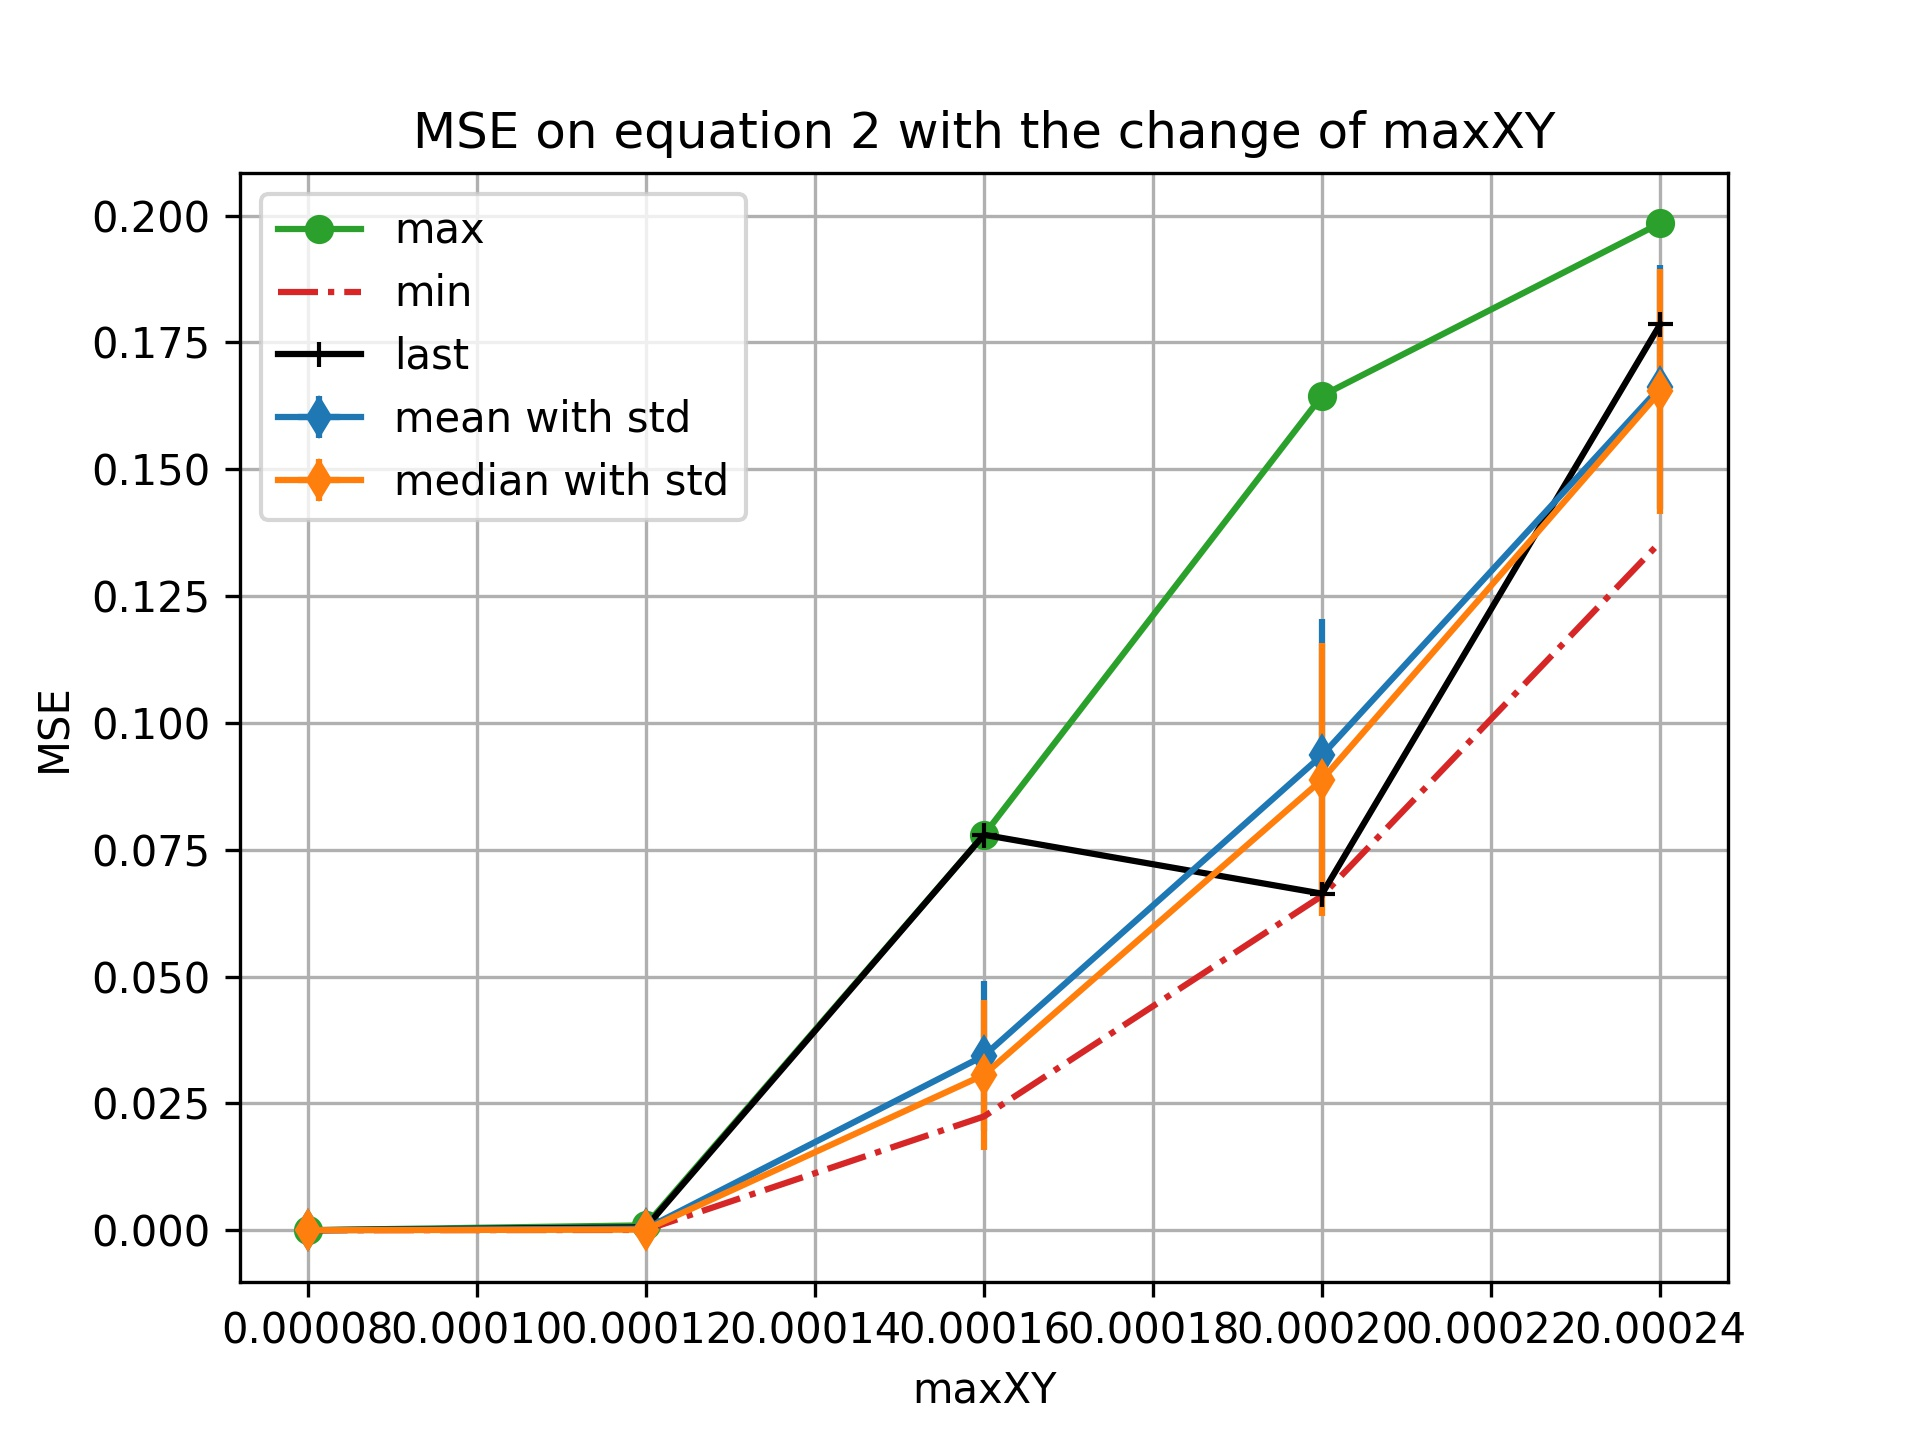
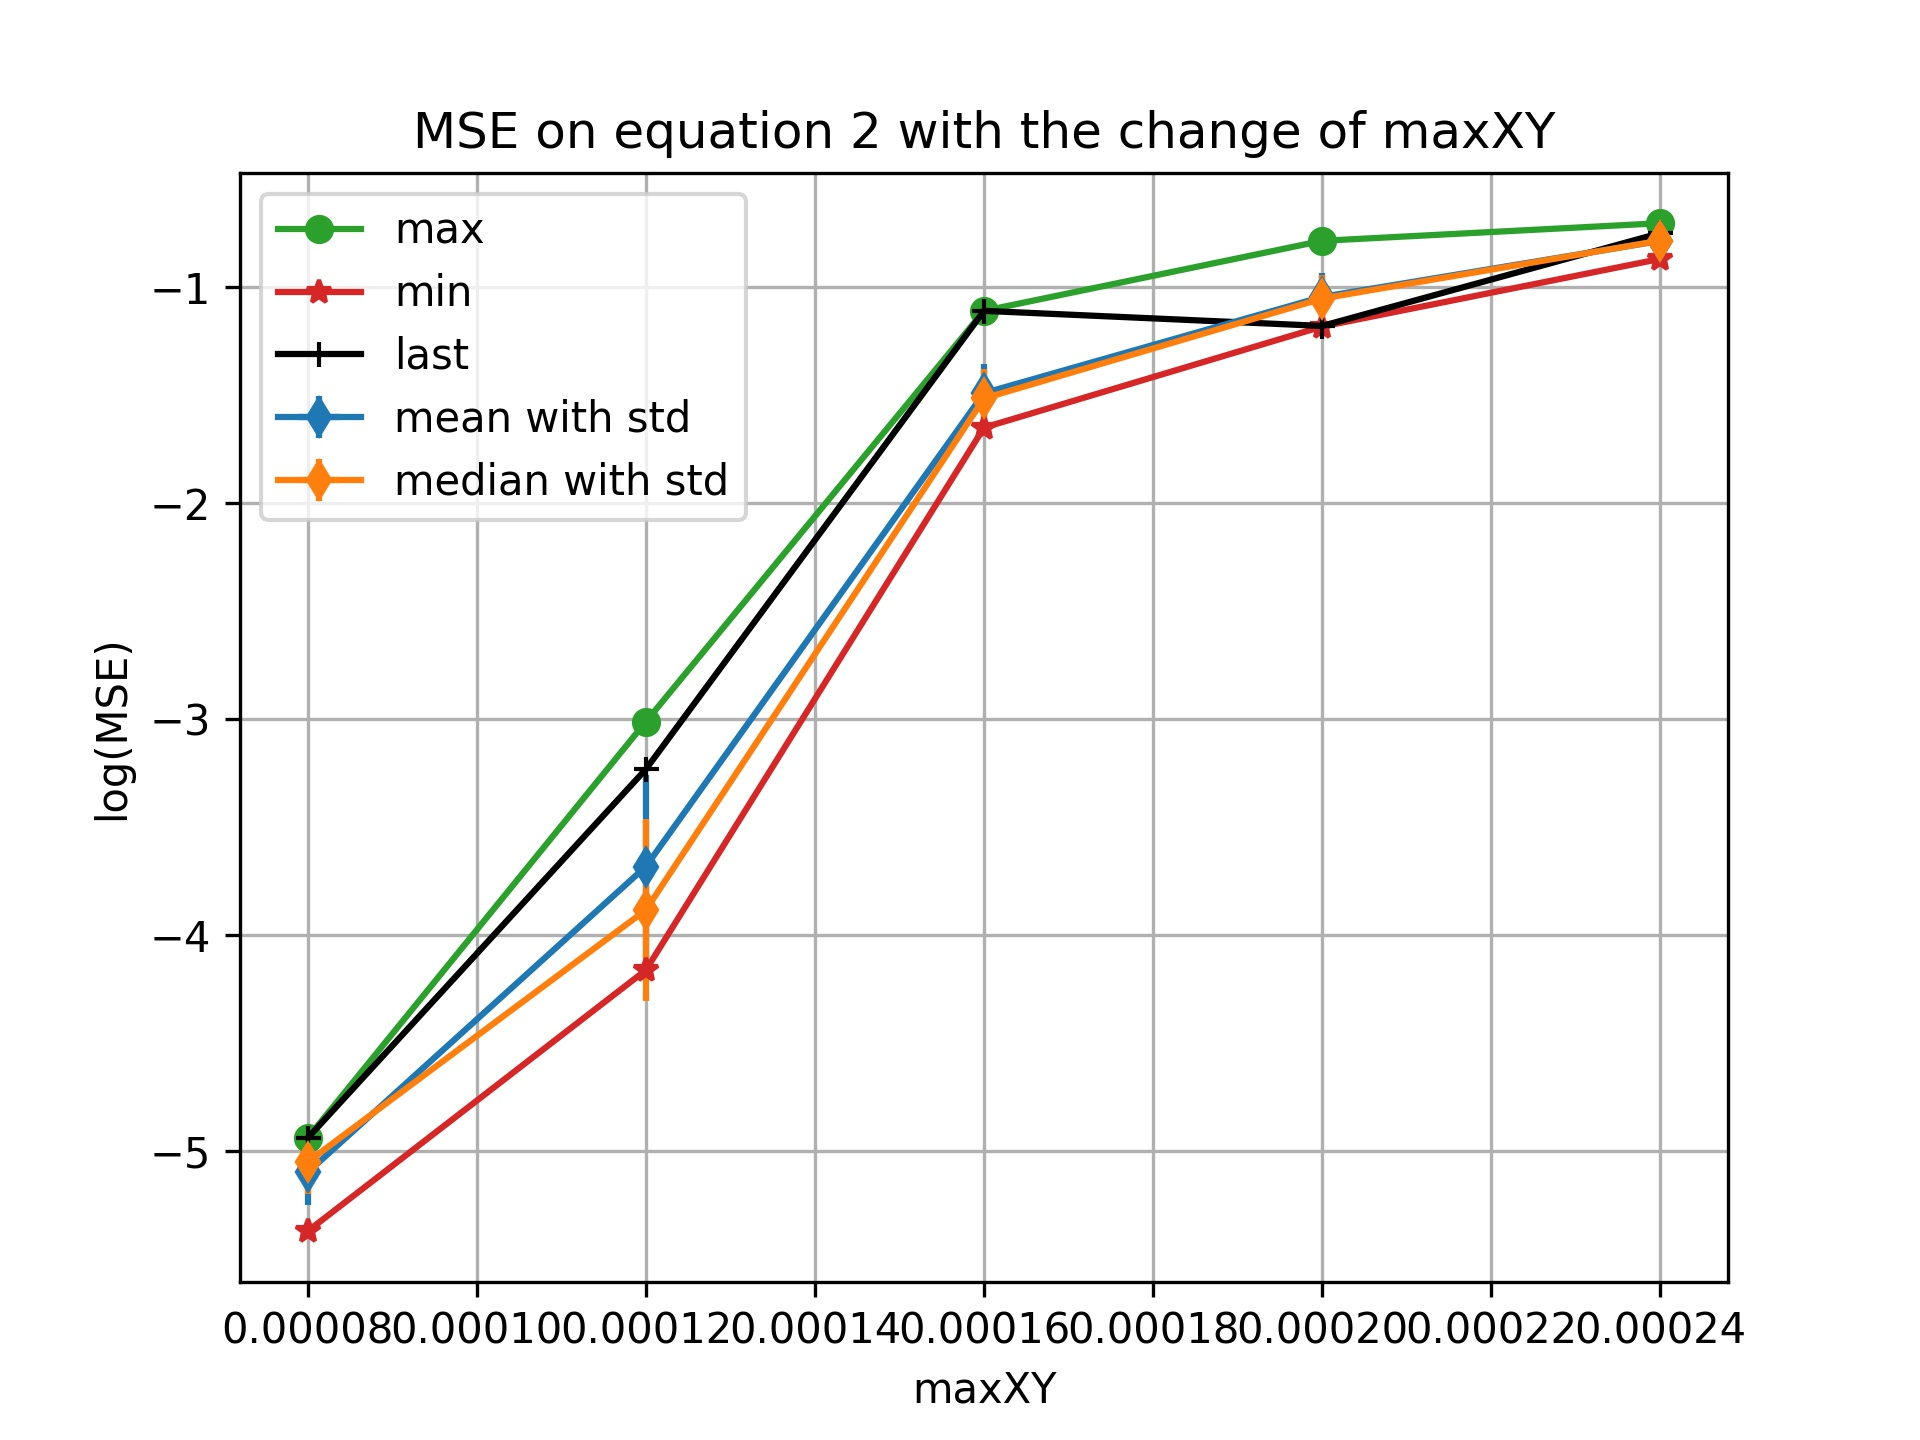
log mse

diff --git a/SPDC_solver/error_analysis/err_analysis.py b/SPDC_solver/error_analysis/err_analysis.py
@@ -14,12 +14,12 @@ def plot_stat(stat,xdata,col,equation):
     plt.errorbar(xdata,stat["mean"],stat["std"],0,"-d",label="mean with std")
     plt.errorbar(xdata,stat["median"],stat["std"],0,"-d",label="median with std")
     plt.plot(xdata,stat["max"],"-o",label="max")
-    plt.plot(xdata,stat["min"],"-.",label="min")
+    plt.plot(xdata,stat["min"],"-*",label="min")
     plt.plot(xdata,stat["last"],"-+",color="black",label="last")
     plt.legend()
     plt.grid()
     plt.xlabel(col)
-    plt.ylabel(r"MSE")
+    plt.ylabel(r"log(MSE)")
     plt.title(f"MSE on equation {equation+1} with the change of {col}")
     plt.savefig(f"fig/{col}_m{equation+1}.jpg")
 

diff --git a/SPDC_solver/utils.py b/SPDC_solver/utils.py
@@ -257,8 +257,8 @@ def check_equations(
     m2 = np.mean(np.abs(f(dEi_vac_dz,idler_vac,idler_field_k,idler_field_kappa,signal_out))**2)
     m3 = np.mean(np.abs(f(dEs_out_dz,signal_out,signal_field_k,signal_field_kappa,idler_vac))**2)
     m4 = np.mean(np.abs(f(dEs_vac_dz,signal_vac,signal_field_k,signal_field_kappa,idler_out))**2)
-    return (m1,m2,m3,m4)
-    # return (np.log(m1)/np.log(10),np.log(m2)/np.log(10),np.log(m3)/np.log(10),np.log(m4)/np.log(10))
+    # return (m1,m2,m3,m4)
+    return (np.log(m1)/np.log(10),np.log(m2)/np.log(10),np.log(m3)/np.log(10),np.log(m4)/np.log(10))
 
 
 def LaguerreP(p, l, x):
